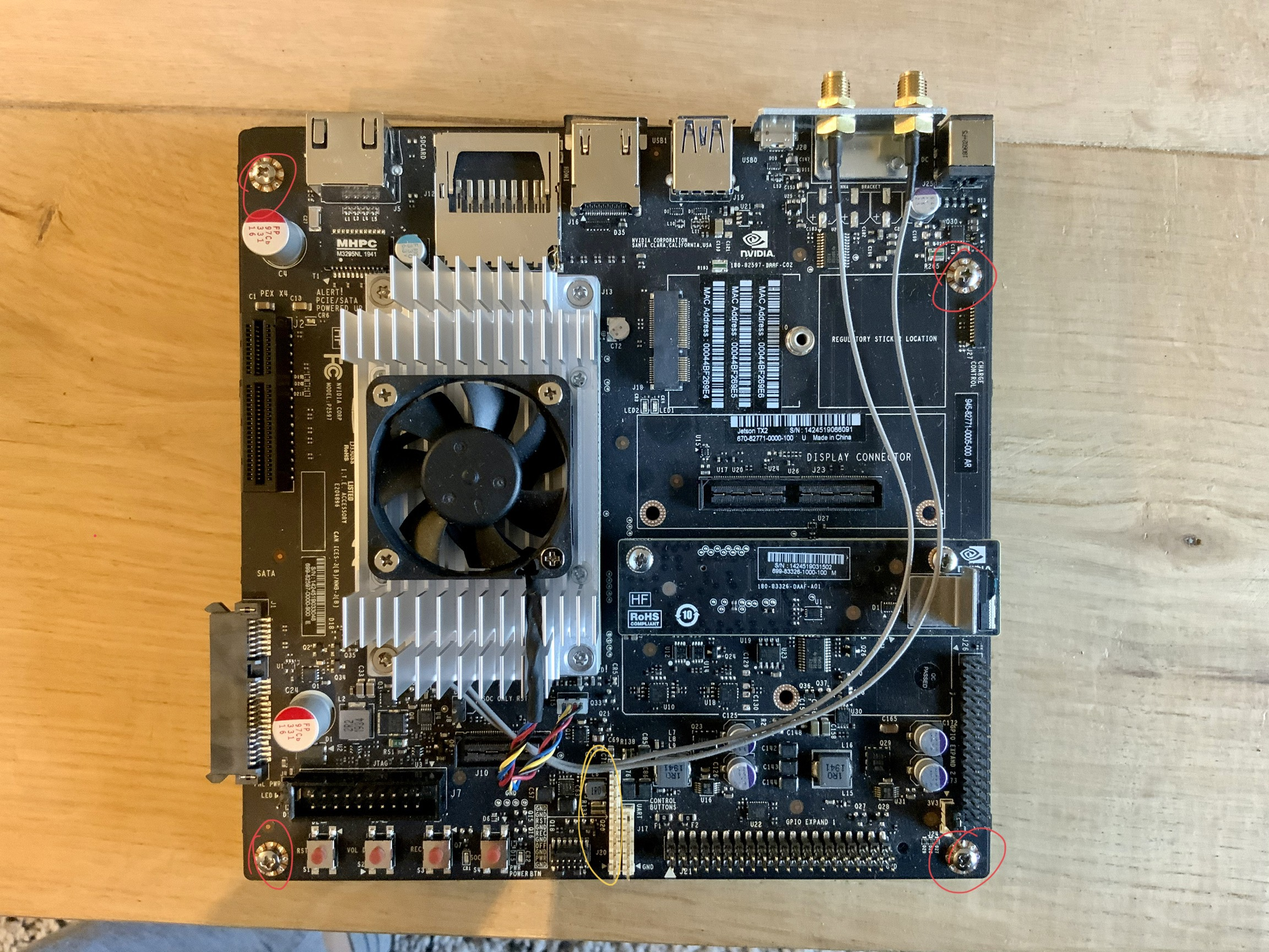
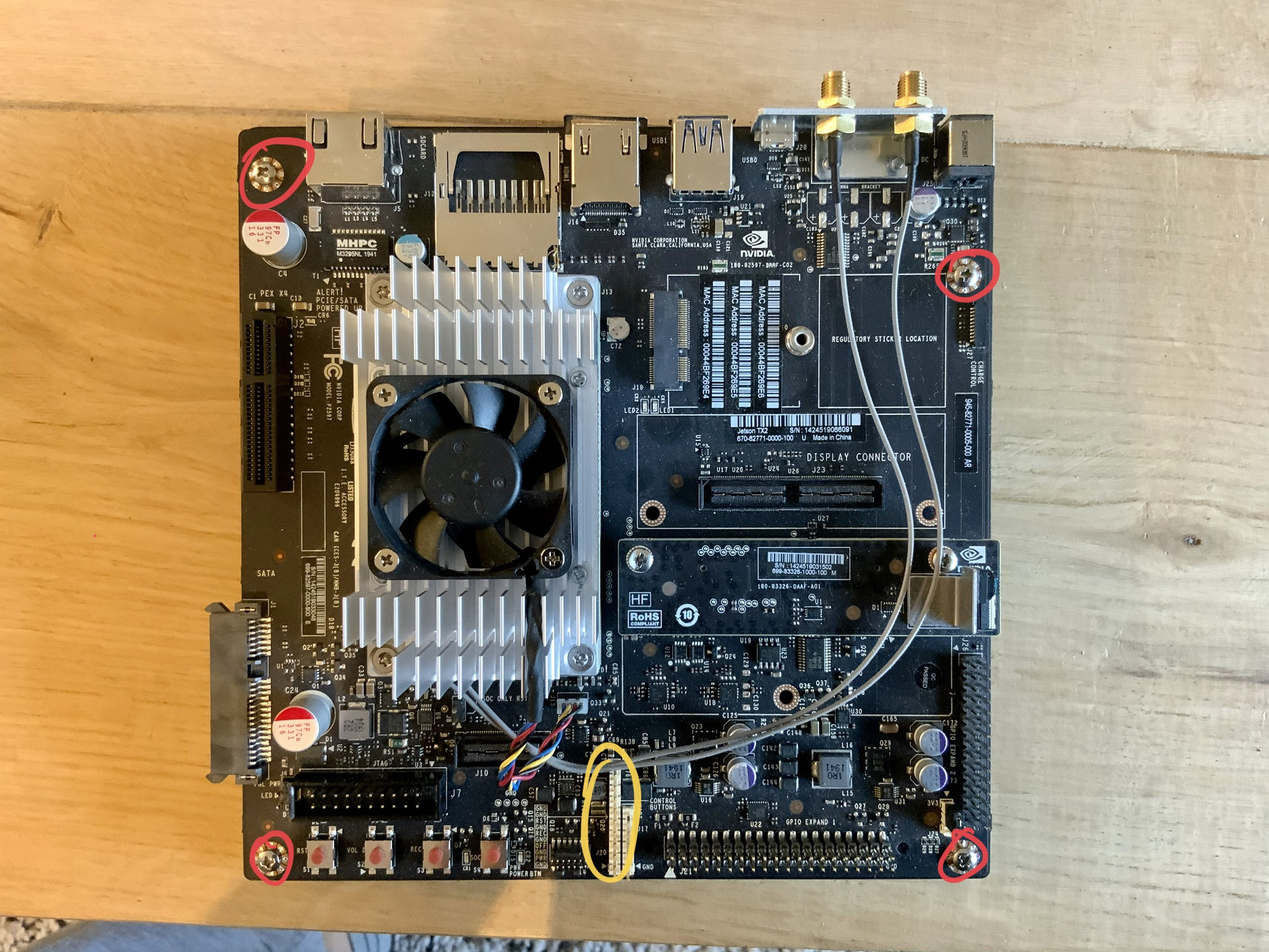
Small fixes and new pictures

diff --git a/README.md b/README.md
@@ -6,37 +6,37 @@ It includes desoldering and soldering 0402 resistors. The full process is descri
 
 I needed a simpler way of automating the auto power on without the risk of damaging the TX2 by desoldering all other resistors next to R313.
 Initially I tested the solution posted here: https://medium.com/@dumiloghin/auto-power-on-for-jetson-tx1-tx2-with-arduino-a5bd1b37659e
-It turns on the TX2 using an Arduino Uno an is an excellent easy solution.
+It turns on the TX2 using an Arduino Uno and is an excellent easy solution.
 
-However, I needed a smaller form factor that could be co-hosted with the TX2 in a small steel box.
+However, I needed a smaller form factor that could be co-hosted with the TX2 in a small steel enclosure.
 
-![Resulting Board](/images/AutoTurnOn4.jpeg)
+![Resulting Board](/images/AutoTurnOn6.jpeg)
 
 Additionally, the only power source available to drive any logic was the 20V rail on the TX2.
-In this project I am using an LDO to regulate the 20V to 5V, power an Attiny85 microcontroller and use it to turn on the TX2 via the J20 header. The microcontroller is mostly in a sleep state and draws very little power, therefore the LDO won't heat up too much.
+In this project I am using an LDO to regulate the 20V to 5V, power an ATtiny85 microcontroller and use it to turn on the TX2 via the J20 header. The microcontroller is mostly in a sleep state and draws very little power, therefore the LDO won't heat up too much.
 
 ![Resulting Board](/images/AutoTurnOn1.jpeg)
 
 # Overview
-The /src/ folder contains the very straigtforward main file for the attiny85.
-The tiny checks if the jetson is on, if not it turns on the jetson. If the jetson is on the tiny goes into sleep mode.
-The sleep mode is the lowest possible, but as we enable the interrupts before going to sleep the tiny will wake up to turn on the jetson again if it shuts down unexpectedly.
+The /src/ folder contains the very straigtforward main file for the ATtiny85.
+The Tiny checks if the Jetson is on, if not it turns on the Jetson. If the Jetson is on then the Tiny goes into sleep mode.
+The sleep mode is the deepest sleep mode available on the Tiny, but as we enable the interrupts before going to sleep the Tiny will wake up to turn on the Jetson again if it shuts down unexpectedly.
 
-The command line commands for compiling and flashing the attiny85 are in the compile.sh.
-Depending on your compiler please adjust the "-c" flag of avrdude.
+The command line commands for compiling and flashing the ATtiny85 are in the `compile.sh`.
+Depending on your compiler please adjust the `-c` flag of `avrdude`.
 
 The images folder contains additional images of the final "product".
 
-An inital version of the pcb can be found in the pcb folder. It was created with KiCad.
-Unfortunatly, I did not have the time to have it manufactured but made it by hand. Additionally, I am more of a software person than a hardware person. Please let me know if you find any boo boos.
+An inital version of the PCB can be found in the PCB folder. It was created with KiCad.
+Unfortunatly, I did not have the time to have it manufactured but made it by hand. Additionally, I am more of a software person than a hardware person. Please let me know if you find any boo-boo's.
 
-# Required
+# Requirements
 
-To build your own circuit you will need the below material & equipment.
+To build your own circuit you will need the following material & equipment:
 
 - avr-gcc, avr-objcopy, avrdude
 - a bit of soldering knowledge & soldering iron
-- a programmer for the Attiny85   
+- a programmer for the ATtiny85. I use the one mentioned in the table below. If you use a different one don't forget to change it in the avrdude command. 
 - the parts on the list below
 - consumables (solder, jumper cables, heat shrink, some thicker (i.e. lower gauge) wire)
 
@@ -45,46 +45,46 @@ To build your own circuit you will need the below material & equipment.
 
 Part description | Number | On Schematic | Datasheet link
 -----------------|--------|--------------|---------------
-Attiny85 | 1 | U1 | http://ww1.microchip.com/downloads/en/DeviceDoc/Atmel-2586-AVR-8-bit-Microcontroller-ATtiny25-ATtiny45-ATtiny85_Datasheet.pdf
+ATtiny85 | 1 | U1 | http://ww1.microchip.com/downloads/en/DeviceDoc/Atmel-2586-AVR-8-bit-Microcontroller-ATtiny25-ATtiny45-ATtiny85_Datasheet.pdf
+Programmer | 1 | na | e.g. https://www.fischl.de/ispnub/
 LDO - L7805 TO-220 | 1 | U2 |  https://www.st.com/resource/en/datasheet/l78.pdf
 BJT - 2N2222 | 1 | Q1 | https://www.onsemi.com/pub/Collateral/P2N2222A-D.PDF
 Capacitor - 0.47μF | 1 | C1 | na
 Capacitor - 0.22μF | 1 | C2 | na
 Resistor - 200Ω | 1 | R1 | na
-Resistor - | 1 | R2 | na
+Resistor - at least 125Ω | 1 | R2 | na
 Resistor - 1kΩ | 2 | R3 & R4 | na
 LED | 1 | D1 | na
 
 On the Schematic the BJT is a 2N2219, which should also work.
 
-For R2 use something that matches your LED.
+For R2 use something that matches your LED but use at least 125Ω as the Tiny I/O pins support a maximum of 40mA. I used between 500Ω to 1000Ω to save power.
 
 The capacitors I used are electrolytic, it would probably be better to use a ceramic cap for the 0.22μF.
-On the other hand the capacitors are not essential, and it should work without the caps.
-However, the LDO datasheet does recommend them.
+On the other hand the capacitors are not essential and it should work without the caps, but keep in mind that the LDO datasheet does recommend them.
 
 # Schematic
 
-The connections on the board look as follows.
+The connections on the board look as follows:
 
 ![Schematic](/images/schematic.svg)
 
 There are four connection points to the Jetson - H1 to H4.
 
-H1 goes to the *PWR* pin on the J20 header this is the pin that needs to be pulled low for 1.5 to 2 seconds to turn on the Jetson.
-H2 goes to the *OFF* pin on the J20 header and is used to detect if the Jetson is on or off.
-H3 goes to the 20V rail on the Jetson.
-H4 goes to ground on the Jetson.
+* H1 goes to the *PWR* pin on the J20 header this is the pin that needs to be pulled low for 1.5 to 2 seconds to turn on the Jetson.
+* H2 goes to the *OFF* pin on the J20 header and is used to detect if the Jetson is on or off.
+* H3 goes to the 20V rail on the Jetson.
+* H4 goes to ground on the Jetson.
 
-For those of you that are more on the software side of life (which includes me):
+More details if you are not such a hardware person (which includes me):
 1. H3 goes into the LDO.
 2. The LDO decreases the voltage to 5V.
 3. The capacitors on the input and output of the LDO are used to decrease noise.
-4. The 5 volt is used to drive the Attiny85 via pin 8 (VCC).
-5. The attiny85 checks if the Jetson is turned on or off - via pin 5 (PB0 going to H2).
-6. If the TX2 is off the attiny85 sets pin 3 (PB4) to high which activates the BJT and pulls H1 low. Pulling H1 low is the same as pressing the power button.
-7. The tiny is also connected to a status LED via pin 2 (PB3). The status LED either blinks (very) slowly or is on (when the Jetson is on).
-7. All ground points are connected to each other and are connected to the JetsonTX2 ground via H4.
+4. The 5 volt is used to drive the ATtiny85 via pin 8 (VCC).
+5. The ATtiny85 checks if the Jetson is turned on or off - via pin 5 (PB0 going to H2).
+6. If the Jetson is off the ATtiny85 sets pin 3 (PB4) to high which activates the BJT and pulls H1 low. Pulling H1 low is the same as pressing the power button.
+7. The Tiny is also connected to a status LED via pin 2 (PB3). The status LED either blinks (very) slowly or is on (when the Jetson is on).
+7. All ground points are connected to each other and are connected to the Jetson ground via H4.
 
 # JetsonTX2 connections
 
@@ -112,12 +112,12 @@ I built my boards in such a way that I could heat shrink the three wires going t
 # PCB
 You can find the initial version of the pcb schematics, KiCad project and gerber files in the pcb folder. I have not tried to manufacture these as I ran out of time and I needed the boards asap. So I manufactured them from hand.
 
-I changed all components to be SMD components, with the exception of the Attiny85.
+I changed all components to be SMD components, with the exception of the ATtiny85.
 
 # Possible changes
 - leave out the status LED - after the Jetson is turned on this consumes the most energy
 
 # Disclaimer
 
-I am not responsible for any damages you cause to your equipment, board etc.
-That said, please do let me know of any changes you suggest!
+I am not responsible for any damages caused to you or your equipment, board etc. When working with electronics proceed with caution. If you do not understand what you are doing, ask for the help of a professional.
+That said, please do let me know if you have any suggestions!
